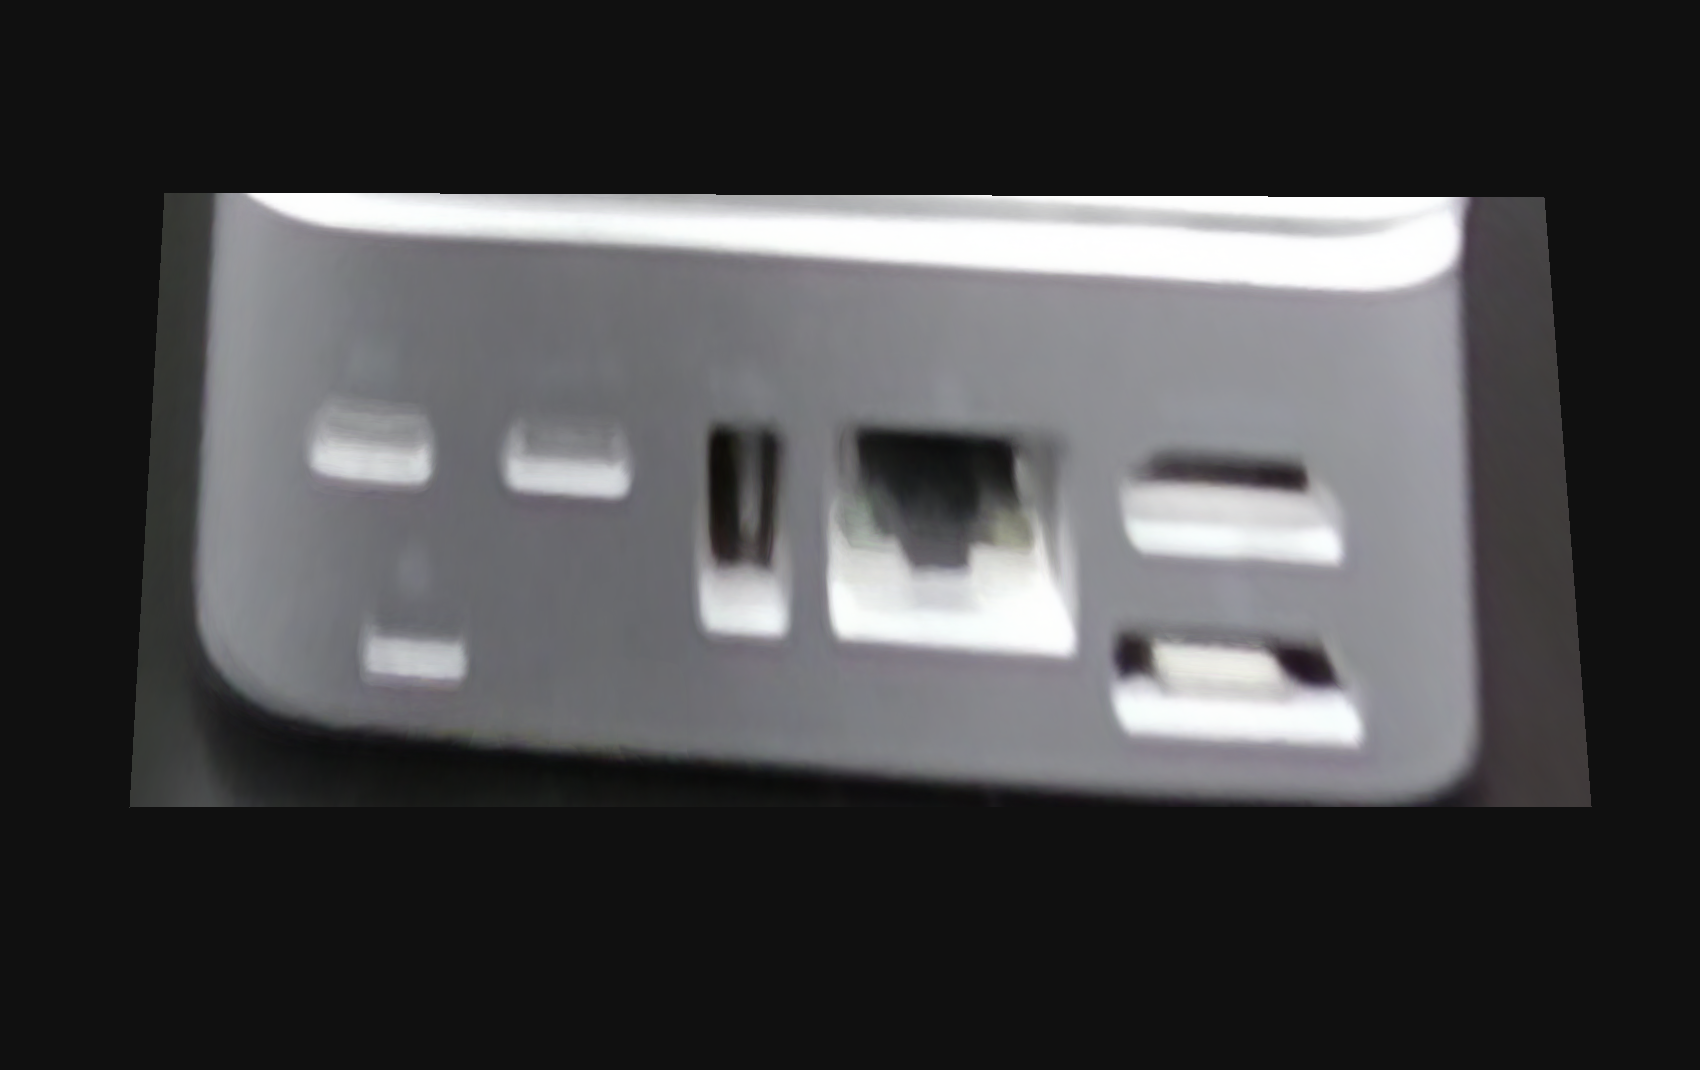
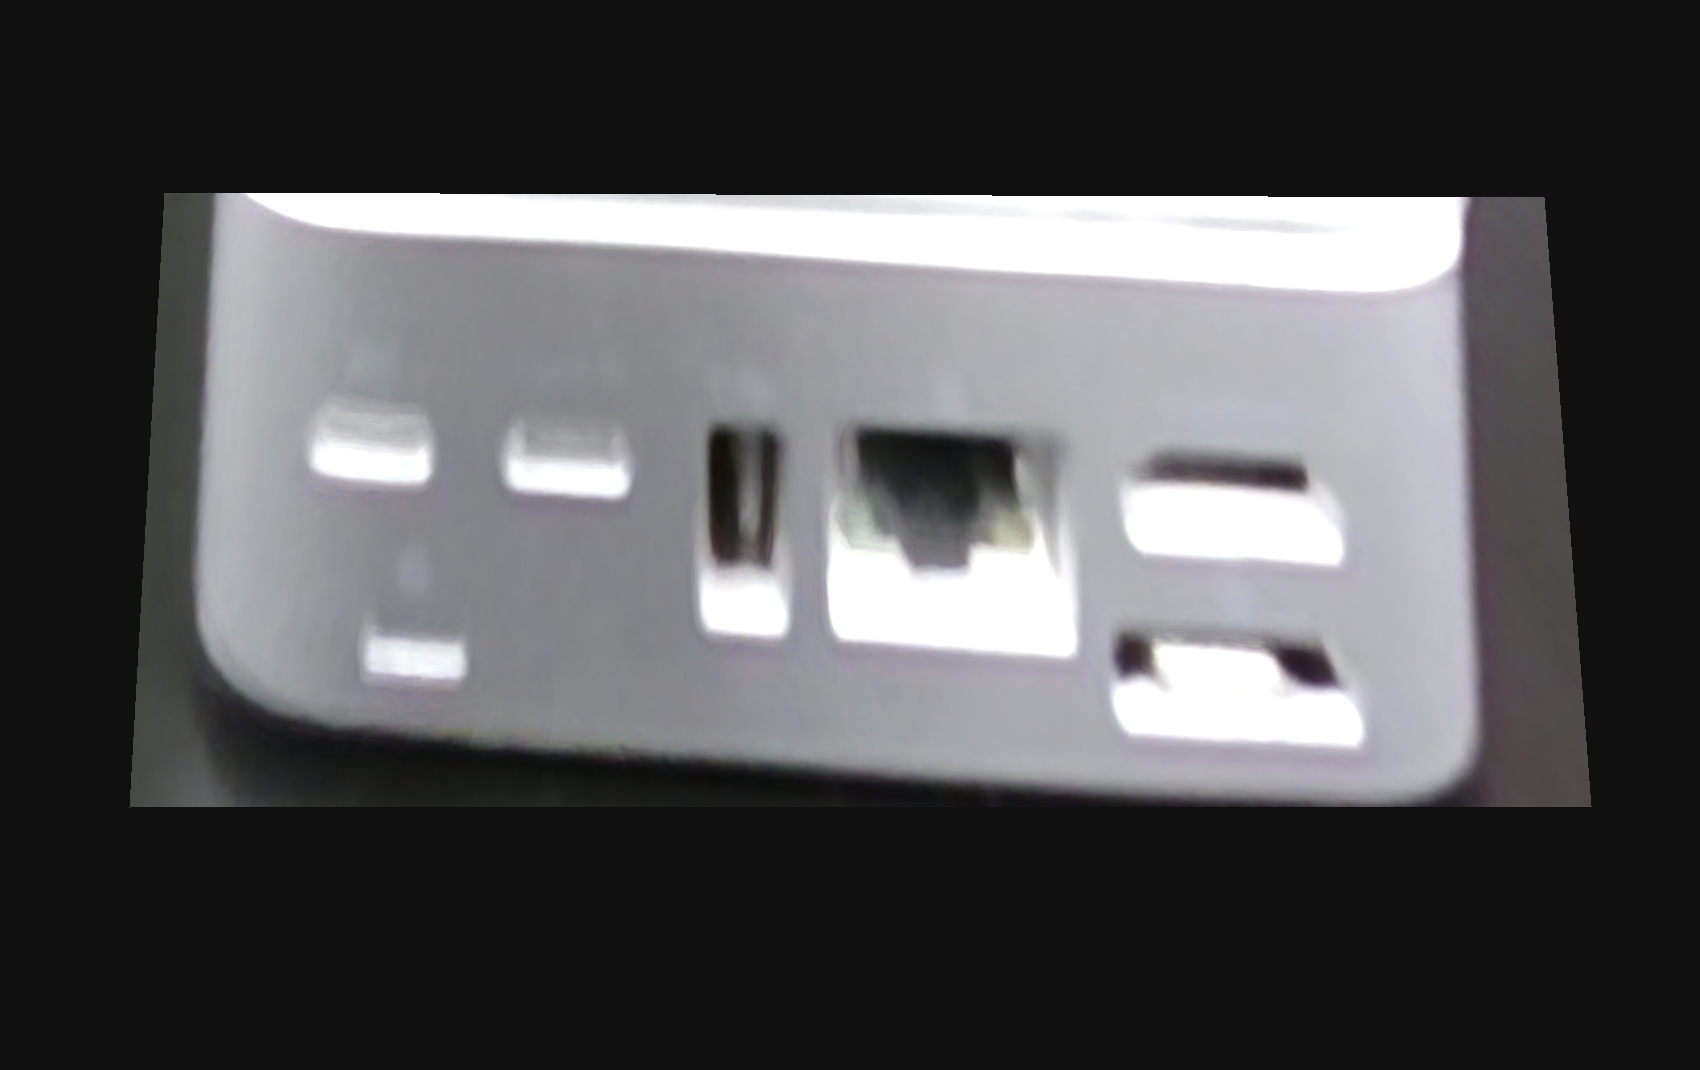
Real PC look: lid texture without the left hand, panel gain
Claude-Session: https://claude.ai/code/session_01DFx7XNfoUoHzcoAE8Q54Xw

diff --git a/scripts/real/wrist_real_textures.py b/scripts/real/wrist_real_textures.py
@@ -35,6 +35,8 @@ def main():
     ap.add_argument('--fit', required=True)
     ap.add_argument('--out', required=True)
     ap.add_argument('--min-gap', type=float, default=8.)
+    ap.add_argument('--panel-gain', type=float, default=1., help='texture gain: the sim light dims the panel, which faces the arm')
+    ap.add_argument('--top-gain', type=float, default=1.)
     a = ap.parse_args()
     fit = json.load(open(a.fit))
     rs = W.rows()
@@ -91,21 +93,27 @@ def main():
     inside = (mx >= 0) & (mx <= wd) & (my >= 0) & (my <= hd)
     P = np.stack([mx - tx, my - ty, np.full_like(mx, .0009)], -1)
     pan, cnt = sample(P)
-    panel = np.where((inside & (cnt > 3))[..., None], np.nan_to_num(pan), 16.).astype(np.uint8)
+    panel = np.clip(np.where((inside & (cnt > 3))[..., None], np.nan_to_num(pan) * a.panel_gain, 16.), 0, 255).astype(np.uint8)
     # lid: 1 px = 0.1 mm
     Hz, Wx = int(depth * 1e4), int(wd * 1e4)
-    x0, x1, z0, z1, y = -tx, wd - tx, 0., -depth, hd - ty + .0004
+    x0, x1, z0, z1, y = -tx, wd - tx, 0., -depth, hd - ty + .0001
     xx, zz = np.meshgrid(np.linspace(x0, x1, Wx), np.linspace(z0, z1, Hz))
     P = np.stack([xx, np.full_like(xx, y), zz], -1)
     top, cnt = sample(P)
     top = np.nan_to_num(top).astype(np.uint8)
+    # beyond the stickers only the lid and the left hand show: colour or dark pixels are the hand; the lid colour fills them
     hsv = cv2.cvtColor(top, cv2.COLOR_BGR2HSV)
-    yellow = (hsv[..., 0] > 15) & (hsv[..., 0] < 40) & (hsv[..., 1] > 90)
     far = np.zeros(top.shape[:2], bool)
-    far[int(.55 * Hz):] = True                        # stickers sit near the panel edge; beyond them dark = the hand
-    dark = far & (hsv[..., 2] < 90)
-    hole = cv2.dilate(((yellow | dark | (cnt <= 3)) * 255).astype(np.uint8), np.ones((15, 15), np.uint8))
-    top = cv2.inpaint(top, hole, 5, cv2.INPAINT_TELEA)
+    far[int(.185 * Hz):] = True
+    other = far & ((hsv[..., 1] > 22) | (hsv[..., 2] < 170))
+    hole = cv2.dilate(((other | (cnt <= 3)) * 255).astype(np.uint8), np.ones((25, 25), np.uint8)) > 0
+    hole = hole & far
+    lid_col = np.median(top[far & ~hole], 0)
+    top[hole] = lid_col
+    blurred = cv2.GaussianBlur(top, (0, 0), 12)
+    soft = cv2.GaussianBlur(hole.astype(np.float32), (0, 0), 6)[..., None]
+    top = (top * (1 - soft) + blurred * soft).astype(np.uint8)
+    top = np.clip(top.astype(float) * a.top_gain, 0, 255).astype(np.uint8)
     Path(a.out).mkdir(parents=True, exist_ok=True)
     cv2.imwrite(f'{a.out}/panel.png', panel)
     cv2.imwrite(f'{a.out}/top.png', top)
